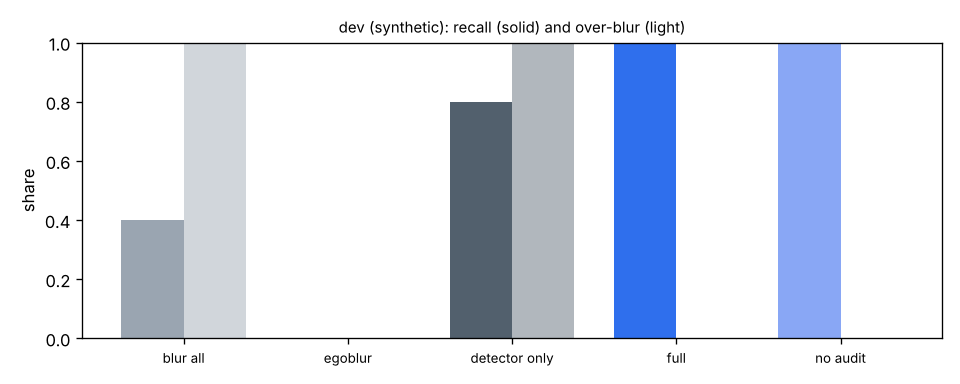
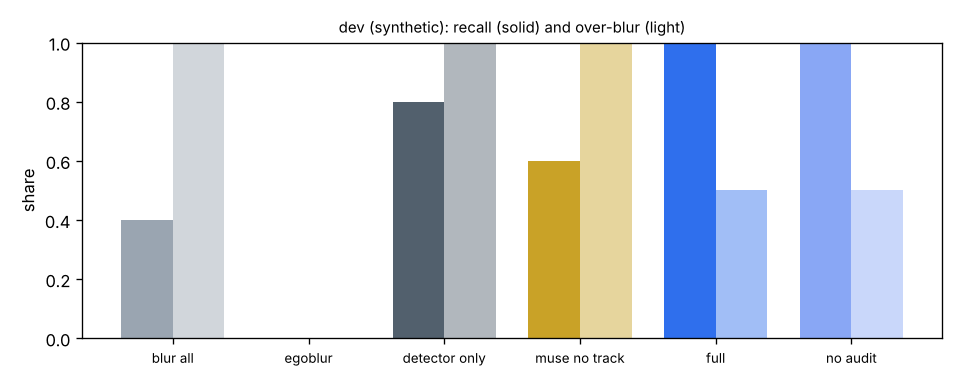
feat(eval): six variants committed; RESULTS drives the README's table; e2e merges a new ID
- All six variants run on the synthetic dev clip (muse_no_track through the
  scout lane's hook); eval/report.py writes the README's results table between
  markers and --check verifies it, so the README can't drift from the runs.
- e2e: the merge dialog's buttons are matched without anchoring (their
  accessible name starts with the thumbnail).

Claude-Session: https://claude.ai/code/session_01JFYTYicHvvwiZr35AVP3kF

diff --git a/eval/report.py b/eval/report.py
@@ -61,6 +61,14 @@ def pct(value: float | None) -> str:
     return "n/a" if value is None else f"{value * 100:.1f}%"
 
 
+def row_name(variant: str, run: dict[str, Any]) -> str:
+    """The row's method name; the egoblur baseline is named after the detector that actually ran."""
+    detector = run["config"].get("detail", {}).get("detector")
+    if variant == "egoblur" and detector and detector != "egoblur-gen2":
+        return f"{DETECTOR_NAMES.get(detector, detector)} on every frame (EgoBlur weights not installed)"
+    return NAMES[variant]
+
+
 def latest(runs: list[dict[str, Any]]) -> dict[tuple[str, bool], dict[str, dict[str, Any]]]:
     """(split, synthetic) → variant → the newest run."""
     table: dict[tuple[str, bool], dict[str, dict[str, Any]]] = {}
@@ -105,10 +113,7 @@ def render(runs: list[dict[str, Any]], settings: Settings | None = None) -> str:
                 lines.append(f"| {NAMES[variant]} | not run | | | | | |")
                 continue
             m, link = run["metrics"], f"[{run['dir']}](results/{run['dir']}/metrics.json)"
-            name = NAMES[variant]
-            detector = run["config"].get("detail", {}).get("detector")
-            if variant == "egoblur" and detector and detector != "egoblur-gen2":
-                name = f"{DETECTOR_NAMES.get(detector, detector)} on every frame (EgoBlur weights not installed)"
+            name = row_name(variant, run)
             load = "n/a" if m["review_load_per_min"] is None else f"{m['review_load_per_min']:.2f}"
             lines.append(
                 f"| {name} | {pct(m['entity_recall'])} | {pct(m['exposure_rate'])} | "
@@ -157,6 +162,40 @@ def render(runs: list[dict[str, Any]], settings: Settings | None = None) -> str:
     return "\n".join(lines)
 
 
+README = ROOT / "README.md"
+README_START, README_END = "<!-- results:start -->", "<!-- results:end -->"
+
+
+def readme_table(runs: list[dict[str, Any]]) -> str:
+    """The README's results table: the newest run of each variant on the reported split. That is the test split
+    once it has runs; until then the dev split, labelled synthetic when its recordings are."""
+    table = latest(runs)
+    key = next((k for k in sorted(table) if k[0] == "test"), None) or next(
+        iter(sorted(table, key=lambda k: k[1])), None
+    )
+    if key is None:
+        return "No committed runs yet."
+    split, synthetic = key
+    rows = [
+        f"| Method ({split} split{', synthetic' if synthetic else ''}) | Recall | Exposure | Leak bursts | Over-blur |",
+        "|---|---|---|---|---|",
+    ]
+    for variant in VARIANTS:
+        run = table[key].get(variant)
+        if run is not None:
+            m = run["metrics"]
+            rows.append(
+                f"| {row_name(variant, run)} | {pct(m['entity_recall'])} | {pct(m['exposure_rate'])} | "
+                f"{m['leak_bursts']} | {pct(m['over_blur'])} |"
+            )
+    return "\n".join(rows)
+
+
+def with_readme_table(readme: str, table: str) -> str:
+    start, end = readme.index(README_START) + len(README_START), readme.index(README_END)
+    return readme[:start] + "\n" + table + "\n" + readme[end:]
+
+
 def charts(runs: list[dict[str, Any]], out: Path = RESULTS_DIR / "charts") -> list[Path]:
     import matplotlib  # noqa: PLC0415 -- charts only, and the backend must be set before pyplot loads
 
@@ -200,16 +239,20 @@ def main(argv: list[str] | None = None) -> int:
     args = parser.parse_args(argv)
     runs = load_runs(RESULTS_DIR)
     text = render(runs)
+    readme = README.read_text(encoding="utf-8") if README.is_file() else ""
+    readme_new = with_readme_table(readme, readme_table(runs)) if README_START in readme else readme
     if args.check:
         current = OUT.read_text(encoding="utf-8") if OUT.is_file() else ""
-        if current != text:
-            print("eval/RESULTS.md is out of date: run `uv run python eval/report.py`", file=sys.stderr)
+        if current != text or readme_new != readme:
+            stale = "eval/RESULTS.md" if current != text else "README.md's results table"
+            print(f"{stale} is out of date: run `uv run python eval/report.py`", file=sys.stderr)
             return 1
-        print("eval/RESULTS.md matches the committed runs")
+        print("eval/RESULTS.md and the README's results table match the committed runs")
         return 0
     OUT.write_text(text, encoding="utf-8")
+    README.write_text(readme_new, encoding="utf-8")
     charts(runs, RESULTS_DIR / "charts")
-    print(f"wrote {OUT.relative_to(ROOT)} from {len(runs)} run(s)")
+    print(f"wrote {OUT.name} and the README's results table from {len(runs)} run(s)")
     return 0
 
 

diff --git a/tests/test_metrics_harness.py b/tests/test_metrics_harness.py
@@ -247,8 +247,14 @@ def test_report_tables_link_every_number_and_label_synthetic_runs(base: Path) ->
 def test_report_check_compares_with_the_committed_file(tmp_path: Path, monkeypatch: pytest.MonkeyPatch) -> None:
     monkeypatch.setattr(report, "RESULTS_DIR", tmp_path / "results")
     monkeypatch.setattr(report, "OUT", tmp_path / "RESULTS.md")
+    readme = tmp_path / "README.md"
+    readme.write_text(f"# x\n{report.README_START}\nstale\n{report.README_END}\n")
+    monkeypatch.setattr(report, "README", readme)
     assert report.main(["--check"]) == 1
     (tmp_path / "RESULTS.md").write_text(report.render([]))
+    assert report.main(["--check"]) == 1  # the README's table is still stale
+    assert report.main([]) == 0
+    assert "No committed runs yet." in readme.read_text()
     assert report.main(["--check"]) == 0
 
 

diff --git a/eval/RESULTS.md b/eval/RESULTS.md
@@ -9,12 +9,12 @@ Recall: the share of should-hide entities covered (≥ 95 % of the box) on at le
 
 | Method | Recall | Exposure | Leak bursts | Over-blur | Needs-you items / min | Run |
 |---|---|---|---|---|---|---|
-| Blur every face (SAM 3.1 `face`, all hidden) | 40.0% | 59.3% | 3 | 100.0% | 0.00 | [20261030T151031Z-dev-blur_all-c3d9426](results/20261030T151031Z-dev-blur_all-c3d9426/metrics.json) |
-| OpenCV YuNet face detector on every frame (EgoBlur weights not installed) | 0.0% | 100.0% | 5 | 0.0% | 0.00 | [20261030T151125Z-dev-egoblur-c3d9426](results/20261030T151125Z-dev-egoblur-c3d9426/metrics.json) |
-| Detector only (SAM 3.1 classes, no Muse Spark) | 80.0% | 10.1% | 1 | 100.0% | 0.00 | [20261030T151058Z-dev-detector_only-c3d9426](results/20261030T151058Z-dev-detector_only-c3d9426/metrics.json) |
-| Muse Spark keyframe boxes, no tracking | not run | | | | | |
-| **Safe Cut (full)** | 100.0% | 0.0% | 0 | 0.0% | 5.00 | [20261030T150921Z-dev-full-c3d9426](results/20261030T150921Z-dev-full-c3d9426/metrics.json) |
-| Safe Cut without the audit pass | 100.0% | 0.0% | 0 | 0.0% | 5.00 | [20261030T151001Z-dev-no_audit-c3d9426](results/20261030T151001Z-dev-no_audit-c3d9426/metrics.json) |
+| Blur every face (SAM 3.1 `face`, all hidden) | 40.0% | 59.3% | 3 | 100.0% | 0.00 | [20261030T154304Z-dev-blur_all-def8c55](results/20261030T154304Z-dev-blur_all-def8c55/metrics.json) |
+| OpenCV YuNet face detector on every frame (EgoBlur weights not installed) | 0.0% | 100.0% | 5 | 0.0% | 0.00 | [20261030T154353Z-dev-egoblur-def8c55](results/20261030T154353Z-dev-egoblur-def8c55/metrics.json) |
+| Detector only (SAM 3.1 classes, no Muse Spark) | 80.0% | 10.1% | 1 | 100.0% | 0.00 | [20261030T154329Z-dev-detector_only-def8c55](results/20261030T154329Z-dev-detector_only-def8c55/metrics.json) |
+| Muse Spark keyframe boxes, no tracking | 60.0% | 37.5% | 12 | 100.0% | 0.00 | [20261030T154403Z-dev-muse_no_track-def8c55](results/20261030T154403Z-dev-muse_no_track-def8c55/metrics.json) |
+| **Safe Cut (full)** | 100.0% | 0.0% | 0 | 50.0% | 10.00 | [20261030T154200Z-dev-full-def8c55](results/20261030T154200Z-dev-full-def8c55/metrics.json) |
+| Safe Cut without the audit pass | 100.0% | 0.0% | 0 | 50.0% | 10.00 | [20261030T154236Z-dev-no_audit-def8c55](results/20261030T154236Z-dev-no_audit-def8c55/metrics.json) |
 
 1 clip(s), 5 should-hide and 2 should-keep entities, 0.20 min of footage. Chart: [charts/dev-synthetic.png](results/charts/dev-synthetic.png).
 

diff --git a/README.md b/README.md
@@ -48,14 +48,18 @@ Model IDs come from the environment (`safecut/config.py`), with Standard model I
 
 From [`eval/RESULTS.md`](eval/RESULTS.md), which `eval/report.py` builds from the committed runs in `eval/results/` only. **The only runs so far are on the synthetic demo clip.** They show that the pipeline, the baselines and the metrics work end to end; they say nothing about model quality, because the "model" answers were generated from the clip's ground truth. Reported numbers come from the frozen test split, run on the owner's machine once the key and labels exist.
 
-| Method (synthetic dev clip) | Recall | Exposure | Leak bursts | Over-blur |
+<!-- results:start -->
+| Method (dev split, synthetic) | Recall | Exposure | Leak bursts | Over-blur |
 |---|---|---|---|---|
 | Blur every face (SAM 3.1 `face`, all hidden) | 40.0% | 59.3% | 3 | 100.0% |
-| Detector only (SAM 3.1 classes, no Muse Spark) | 80.0% | 10.1% | 1 | 100.0% |
 | OpenCV YuNet face detector on every frame (EgoBlur weights not installed) | 0.0% | 100.0% | 5 | 0.0% |
-| **Safe Cut (full)** | 100.0% | 0.0% | 0 | 0.0% |
+| Detector only (SAM 3.1 classes, no Muse Spark) | 80.0% | 10.1% | 1 | 100.0% |
+| Muse Spark keyframe boxes, no tracking | 60.0% | 37.5% | 12 | 100.0% |
+| **Safe Cut (full)** | 100.0% | 0.0% | 0 | 50.0% |
+| Safe Cut without the audit pass | 100.0% | 0.0% | 0 | 50.0% |
+<!-- results:end -->
 
-The worst honest failure on this clip: the YuNet baseline finds no drawn face at all (they aren't faces), so it exposes everything, and blur-every-face hides both participants. Recall, exposure, leak bursts and over-blur are defined in `eval/RESULTS.md` and tested in `tests/test_metrics.py`.
+The honest failures on this clip: the YuNet baseline finds no drawn face at all (they aren't faces), so it exposes everything. Blur-every-face hides both participants. Safe Cut's own over-blur comes from deny-by-default: the guest leaves and comes back, the tracker gives the return a new ID, and with the policy auto-approved that span stays hidden until a creator merges it (one tap in review). Recall, exposure, leak bursts and over-blur are defined in `eval/RESULTS.md` and tested in `tests/test_metrics.py`.
 
 ## Production notes
 
